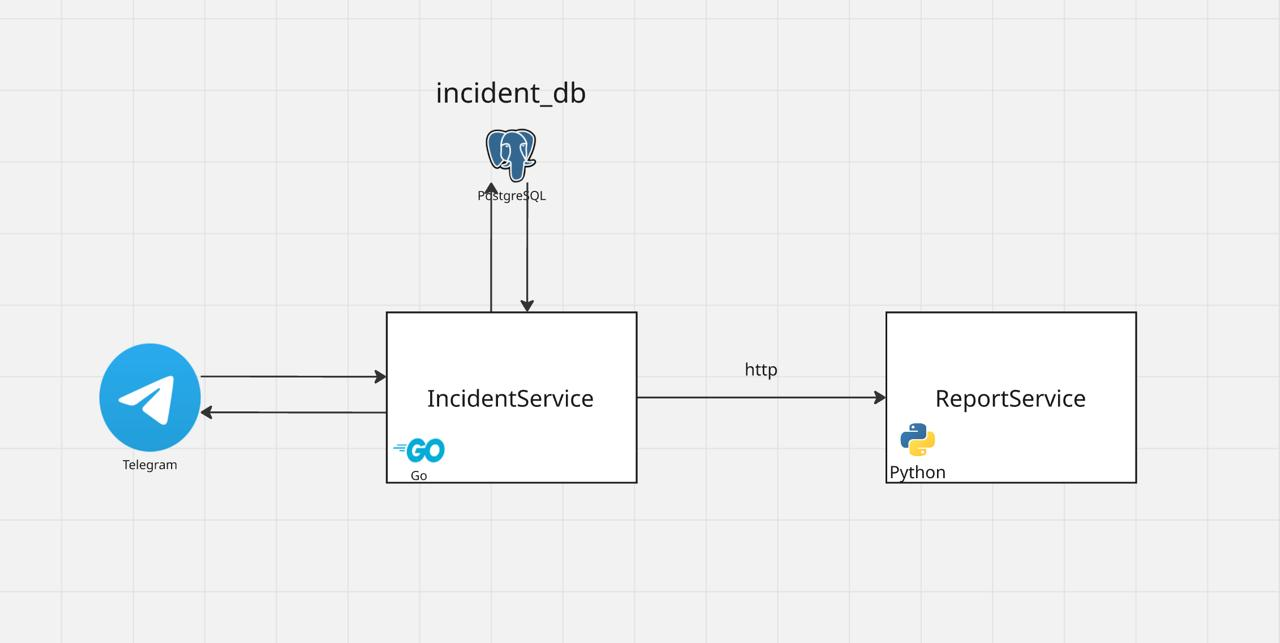
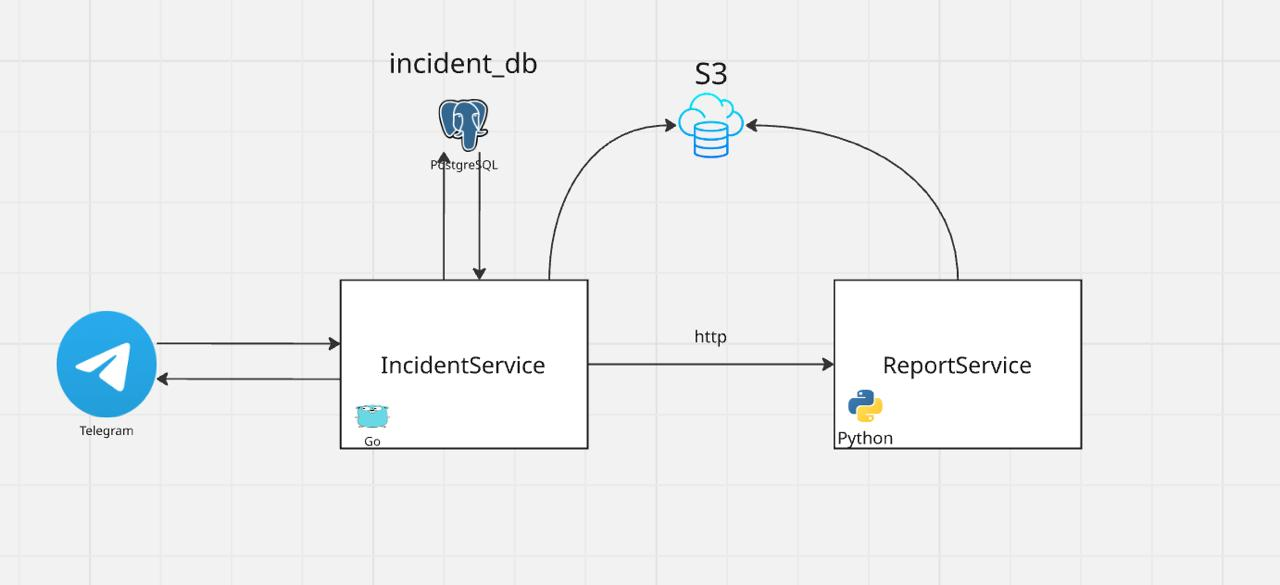
Update docs

diff --git a/README.md b/README.md
@@ -1,31 +1,36 @@
 # Incident War Room
 
-Incident War Room is a Telegram-native platform for managing production incidents and preserving incident knowledge in a structured form.
+Incident War Room is a self-hosted incident management platform that integrates with Telegram and monitoring systems to simplify production incident response.
 
-The system allows engineering teams to create incidents directly from Telegram group chats, record important investigation updates, track incident severity, maintain a chronological timeline of events, and automatically generate post-incident reports.
+The platform automatically creates dedicated Telegram Topics for incidents, records investigation updates as a structured timeline, generates AI-powered incident reports, and stores reports in S3-compatible object storage. It can also integrate with Prometheus Alertmanager to automatically create incidents when monitoring detects a failure.
 
 The platform consists of two core services:
 
-* **Incident Service (Go)** — handles Telegram integration, incident management, timeline tracking, data persistence, and report generation requests.
-* **Report Service (Python)** — generates PDF incident reports based on collected incident data.
+* **Incident Service (Go)** — handles Telegram integration, incident lifecycle management, monitoring integrations, timeline tracking, data persistence, and communication with external services.
+* **Report Service (Python)** — generates AI-enhanced PDF reports, integrates with object storage, and supports both S3 and inline report delivery modes.
 
 ## Key Features
 
-* Incident creation and management directly from Telegram
-* Timeline-based incident tracking
-* Severity management (Low, Medium, High)
-* Automatic participant collection
-* Incident report generation in PDF format
+* Telegram Topics for isolated incident discussions
+* Automatic incident creation from Prometheus Alertmanager
+* Manual incident creation directly from Telegram
+* Chronological incident timeline
+* AI-generated incident title and summary
+* PDF report generation
+* S3-compatible report storage with automatic fallback
+* Incident history and web dashboard
 * PostgreSQL-based persistence
-* Containerized deployment using Docker
+* Docker-based deployment
 
 ## Example Workflow
 
-1. Create an incident using `/incident create`.
-2. Add important investigation updates using `/incident <message>`.
-3. View the current timeline with `/timeline`.
-4. Adjust incident severity when required.
-5. Close the incident using `/incident close`.
-6. Receive an automatically generated PDF report in Telegram.
+1. An incident is created manually from Telegram or automatically by Alertmanager.
+2. A dedicated Telegram Topic is created for the incident.
+3. Engineers discuss the incident inside the Topic while the system records the timeline.
+4. AI generates an incident title and summary.
+5. The incident is resolved and the Topic is automatically removed.
+6. A PDF report is generated and delivered to Telegram.
+7. If S3 is configured, the report is stored in object storage; otherwise, it is delivered directly by the Report Service.
+8. The incident remains available through the web dashboard for future investigation and analysis.
 
-The project is designed as an MVP for engineering teams that already use Telegram as their primary communication platform and need a lightweight incident management solution without introducing additional tools into their workflow.
+The platform is designed for engineering teams that already use Telegram as their primary communication tool and want a lightweight, self-hosted incident management solution that can be deployed in their own infrastructure and integrated with existing monitoring systems.